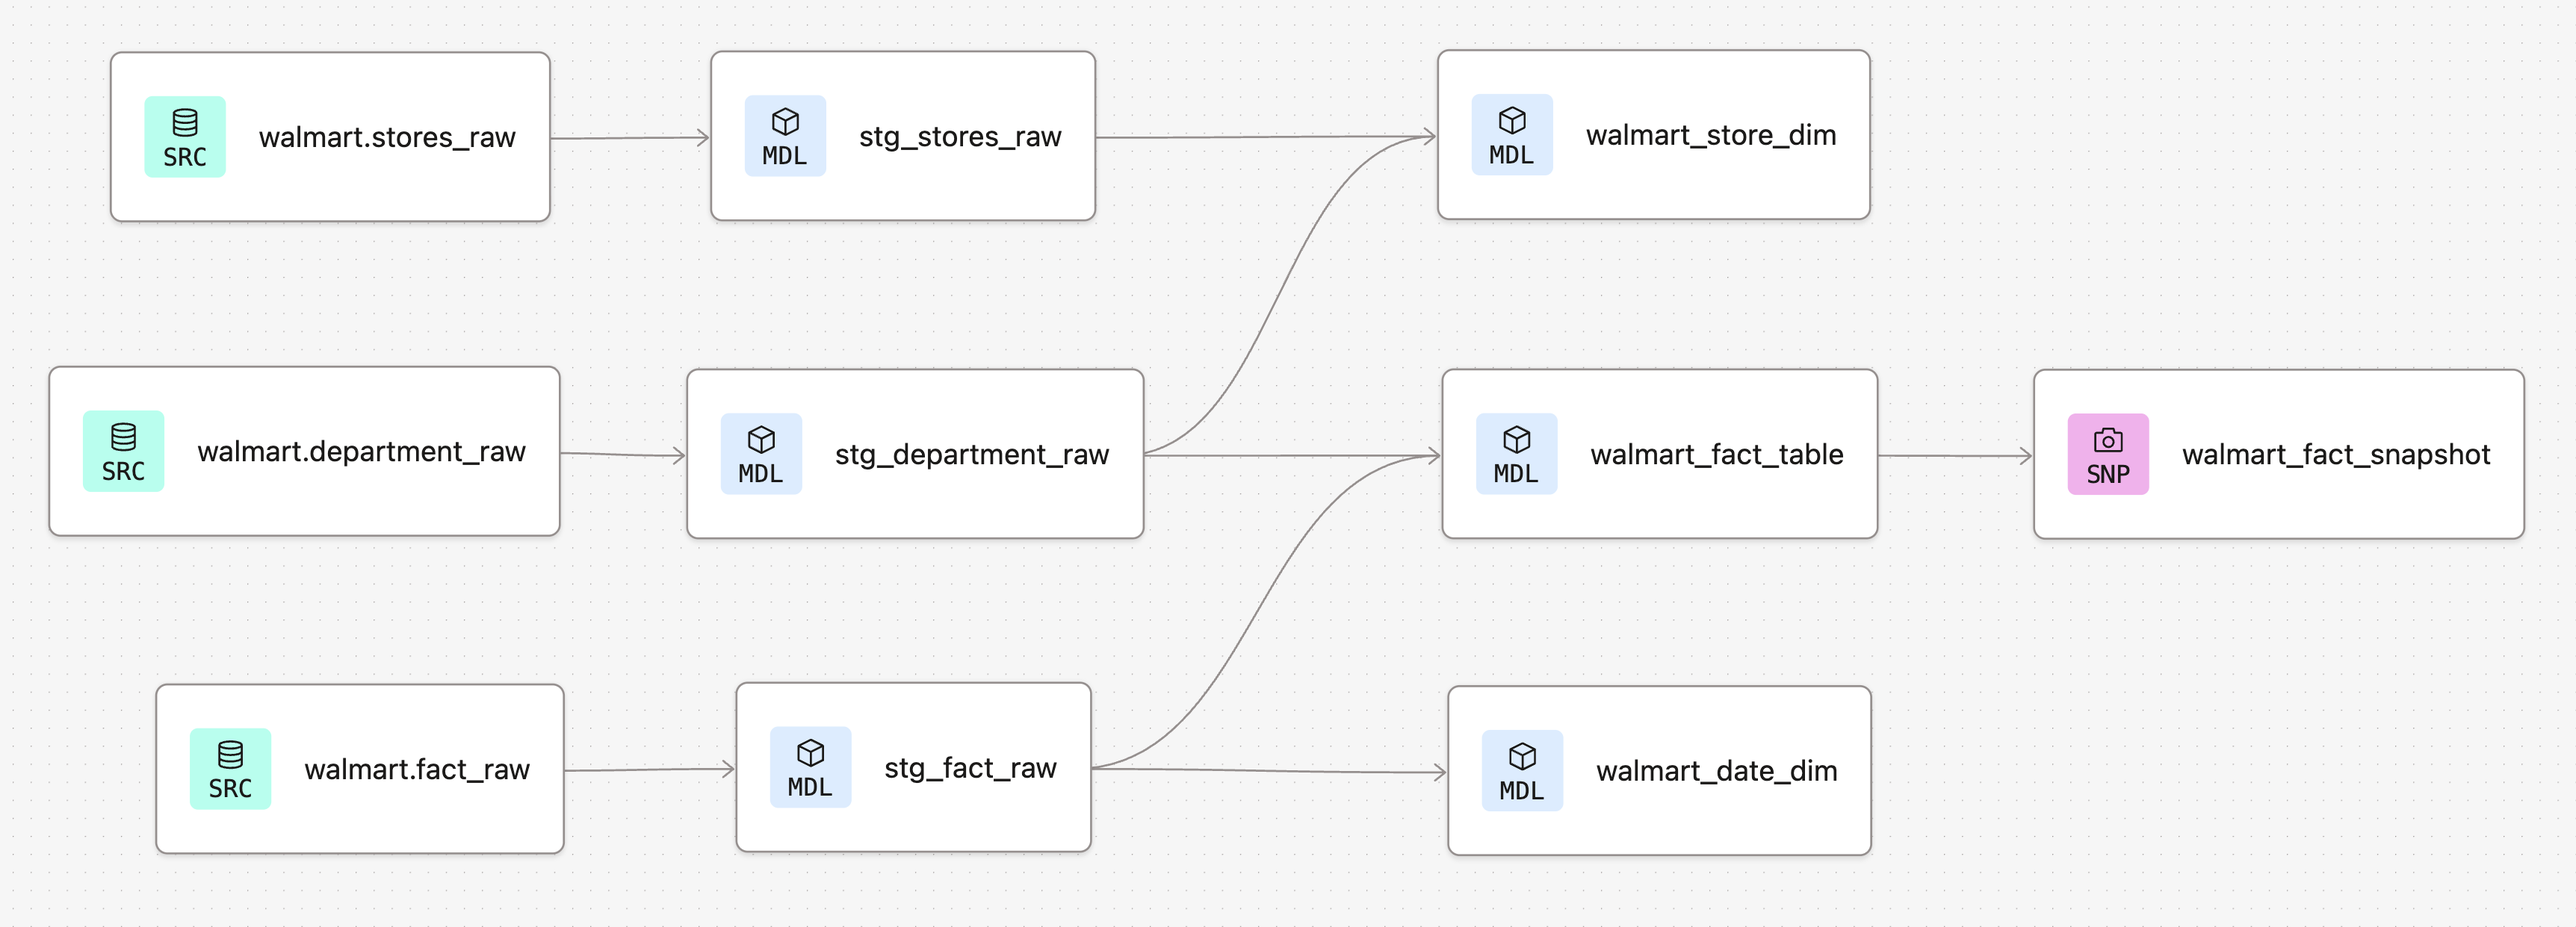
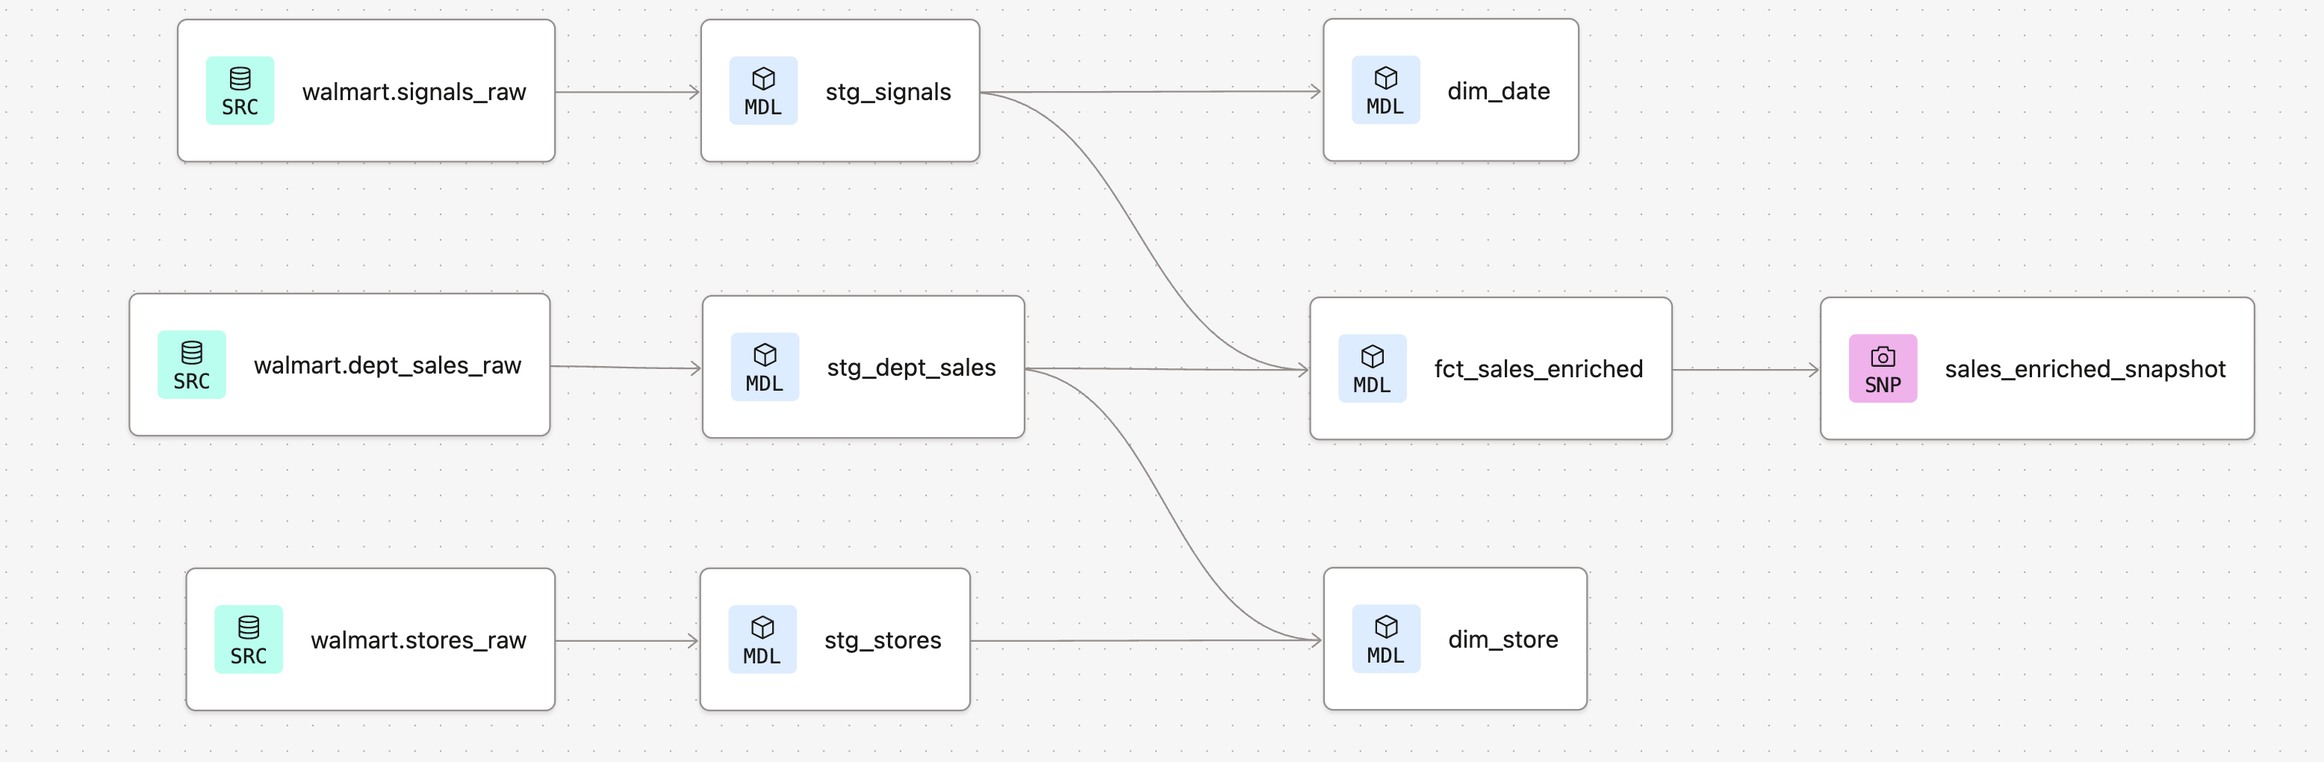
update docs

diff --git a/docs/walmart.md b/docs/walmart.md
@@ -10,9 +10,9 @@ Data sources:
 
 Outputs: 
 - Final tables created in Snowflake using DBT include:
-  - `walmart_store_dim` (SCD1, row per store-department)
-  - `walmart_date_dim` (SCD1, row per week)
-  - `walmart_fact_table` (SCD2, row per store-department-week)
+  - `dim_store` (SCD1, row per store-department)
+  - `dim_date` (SCD1, row per week)
+  - `fct_sales_enriched` (SCD2, row per store-department-week)
 - Visualizations for BI reporting using Python libraries & snowflake connector
 
 ## Architecture
@@ -35,16 +35,16 @@ DBT loads source data from S3, builds fact and dimensions tables in Snowflake, a
 - Loads raw source tables from S3
   - `load_csv` macro runs `COPY INTO` command using args for each table: `stores_raw`, `department_raw`, `fact_raw`
   - Configured as pre-hook for each staging model in bronze layer
-- Builds staging views 1:1 with sources
-  - `stg_stores_raw` (grain: store)
-  - `stg_department_raw` (grain: store-department-week)
-  - `stg_fact_raw` (grain: store-week)
+- Builds staging models 1:1 with sources
+  - `stg_stores` (grain: store)
+  - `stg_dept_sales` (grain: store-department-week)
+  - `stg_signals` (grain: store-week)
 - Builds incremental models implementing SCD1 for
-  - `walmart_store_dim` (grain: store-department)
-  - `walmart_date_dim` (grain: week)
-- Builds SCD2 model for walmart_fact_table in two steps
-  - `walmart_fact_table` (grain: store-department-week)
-  - `walmart_fact_snapshot` (snapshot captures historical changes on table above)
+  - `dim_store` (grain: store-department)
+  - `dim_date` (grain: week)
+- Builds SCD2 model for enriched sales in two steps
+  - `fct_sales_enriched` (grain: store-department-week)
+  - `sales_enriched_snapshot` (snapshot captures historical changes on table above)
 - Python code used to produce visualizations for BI reporting with Python libraries
   - Python-snowflake connector is used to query final tables in Snowflake
   - Matplotlib & seaborn used to create visualizations
@@ -53,14 +53,6 @@ DBT loads source data from S3, builds fact and dimensions tables in Snowflake, a
 ## DBT Lineage Graph
 
 ![](dbt_lineage.png)
-
-
-## Data Quality
-
-Tests planned to add
-- Not null and unique tests for all PKs
-
-
 
 ## Setup
 Run snowflake/walmart.sql to create database and define source tables in Snowflake SQL file.
@@ -100,18 +92,19 @@ Visualizations for BI reporting produced in Python [`walmart_analysis`](../visua
     │   └── walmart
     │       ├── bronze
     │       │   ├── _bronze.yml
-    │       │   ├── stg_stores_raw.sql
-    │       │   ├── stg_department_raw.sql
-    │       │   └── stg_fact_raw.sql
+    │       │   ├── stg_dept_sales.sql
+    │       │   ├── stg_signals.sql
+    │       │   └── stg_stores.sql
     │       ├── silver
-    │       │   ├── walmart_store_dim.sql
-    │       │   ├── walmart_date_dim.sql
-    │       │   └── walmart_fact_table.sql
+    │       │   ├── _silver.yml
+    │       │   ├── dim_store.sql
+    │       │   ├── dim_date.sql
+    │       │   └── fct_sales_enriched.sql
     │       └── gold
     │           └── weekly_sales.sql
     │
     ├── snapshots
-    │   └── walmart_fact_snapshot.sql
+    │   └── sales_enriched_snapshot.sql
     │
     ├── packages.yml        # shared
     └── dbt_project.yml     # shared (multi-project)
